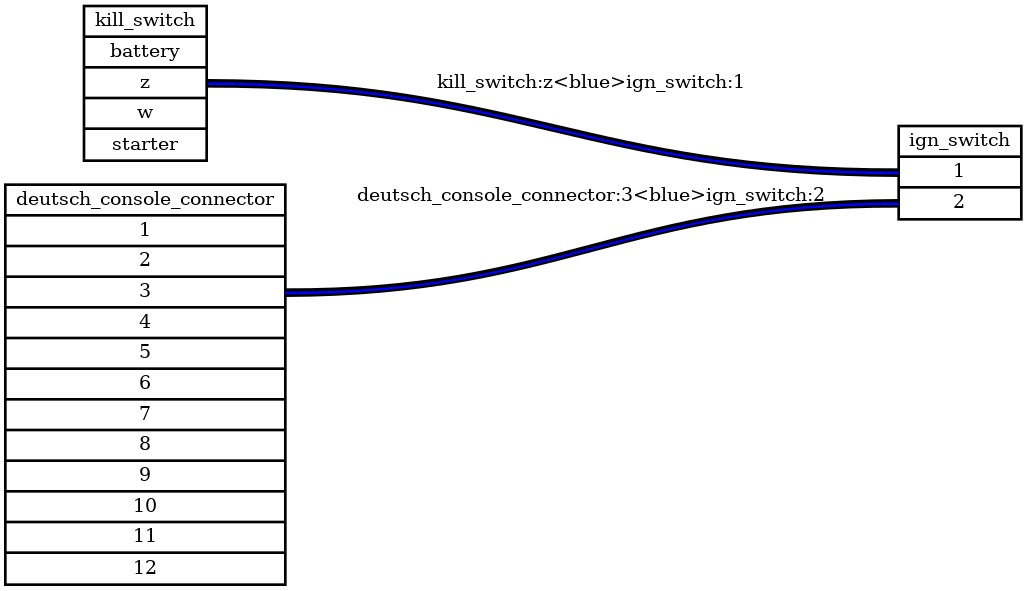
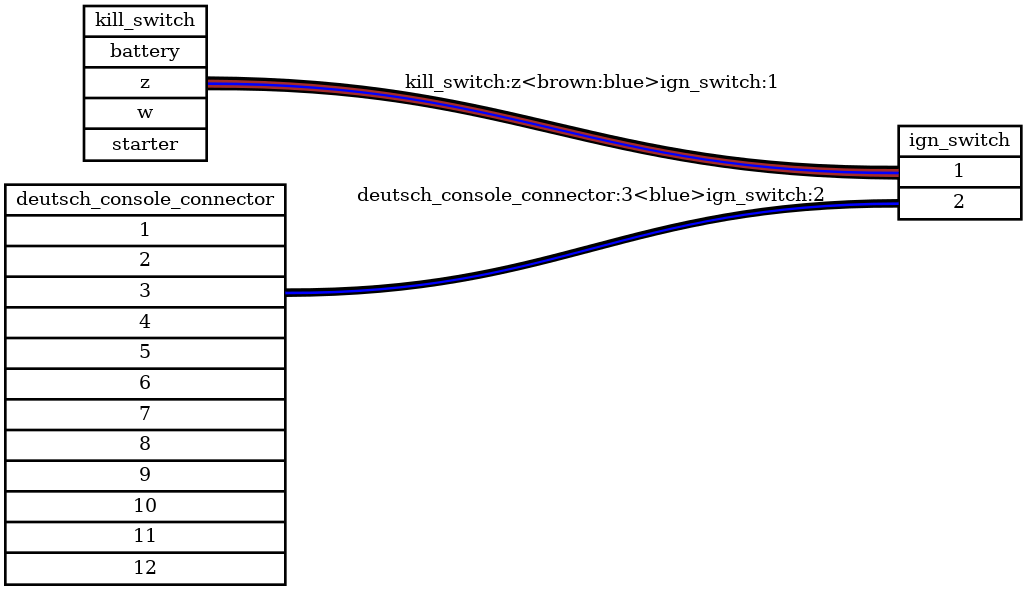
Pick an unused color for the ign switch

Changed region(s): [[0.187, 0.1218, 0.8724, 0.3046]]

diff --git a/corrado_wiring.py b/corrado_wiring.py
@@ -84,7 +84,7 @@ LINK_ECU_A_PIN_COLOR_MAP = {
 }
 LINK_ECU_B_PIN_COLOR_MAP = {
     'Inj8': 'brown:violet',
-    'Inj7': 'brown:blue',
+    'Inj7': 'brown:blue',  # Wire color stolen for Ign switch.
     'Inj6': 'brown:green',
     'Inj5': 'brown:yellow',
     '+14V Aux9/10': 'red',
@@ -319,11 +319,10 @@ AddPath((
   ('razor_pdm', 'neg'),
 ), 'black')
 
-# TODO: Verify blue is not already in use.
 AddPath((
   ('kill_switch', 'z'),
   ('ign_switch', '1'),
-), 'blue')
+), 'brown:blue')
 AddPath((
   ('razor_pdm', 'IGNSW'),
   DCC.GetFreePin(),
@@ -517,8 +516,6 @@ AddPathWithMap((
 # MAP Sensor
 AddPathWithMap((
   ('link_ecu_a', 'AnVolt2'),
-  # TODO: Figure out where MAP Sensor will be mounted and
-  # if this will still be connected to the deutsch connector.
   DCEB.GetFreePin(),
   ('map_sensor', 'Sensor'),
 ))
